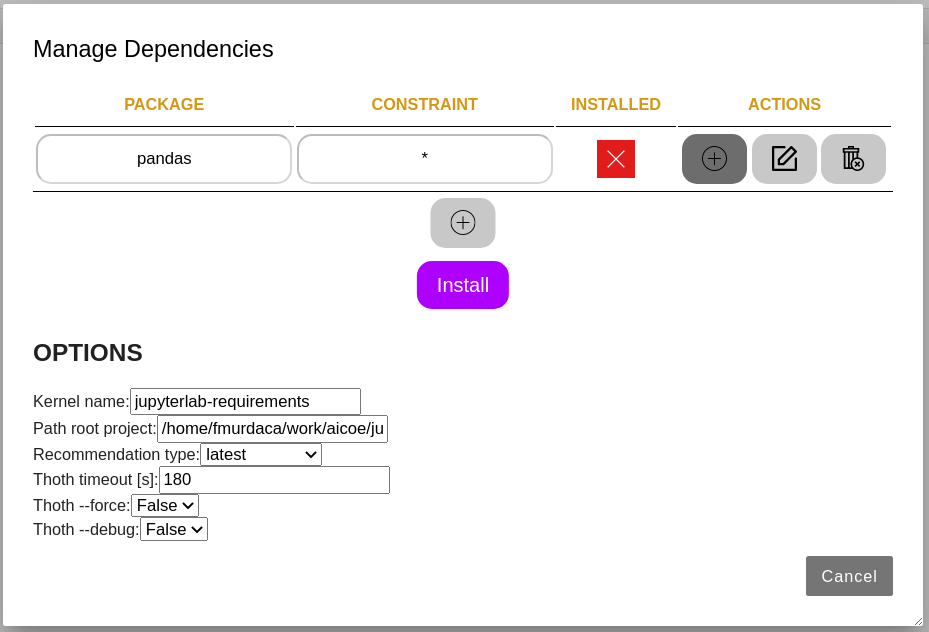
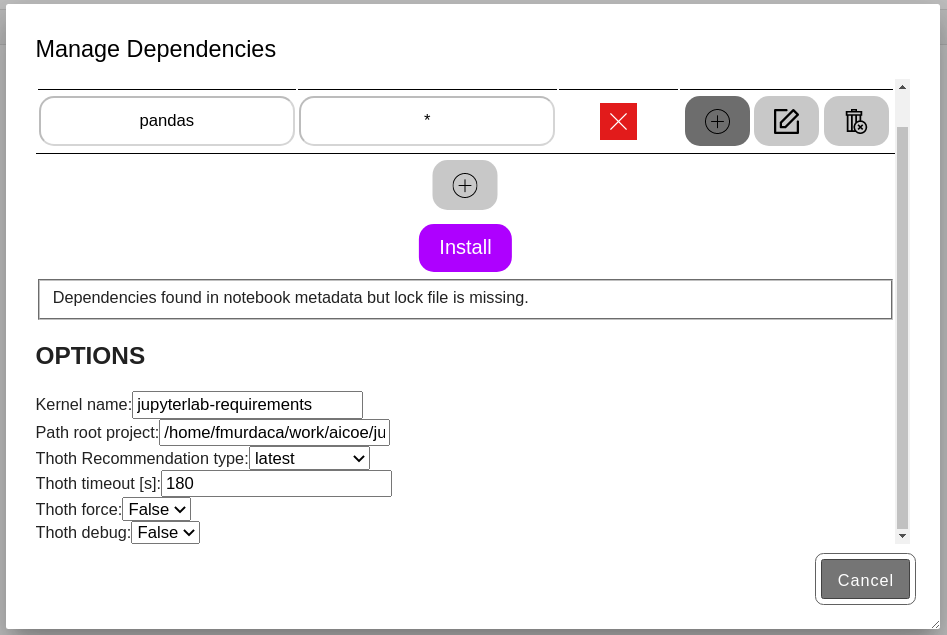
Add table for UI parameters description

Changed region(s): [[0.0, 0.0301, 0.9677, 0.962], [0.8428, 0.8718, 0.9677, 0.962], [0.4058, 0.7516, 0.437, 0.7816]]

diff --git a/src/components/dependencyManagementUI.tsx b/src/components/dependencyManagementUI.tsx
@@ -928,7 +928,7 @@ export class DependenciesManagementUI extends React.Component<IDependencyManagem
                             </label>
                             <br />
                             <label>
-                              Recommendation type:
+                              Thoth Recommendation type:
                               <select onChange={() => this.changeRecommendationType}>
                                 title="Recommendation Type"
                                 name="recommendation_type"
@@ -952,7 +952,7 @@ export class DependenciesManagementUI extends React.Component<IDependencyManagem
                             </label>
                             <br />
                             <label>
-                              Thoth --force:
+                              Thoth force:
                               <select onChange={() => this.setForceParameter}>
                                 title="Thoth force parameter"
                                 name="thoth_force"
@@ -963,7 +963,7 @@ export class DependenciesManagementUI extends React.Component<IDependencyManagem
                             </label>
                             <br />
                             <label>
-                              Thoth --debug:
+                              Thoth debug:
                               <select onChange={() => this.setForceParameter}>
                                 title="Thoth debug parameter"
                                 name="thoth_debug"

diff --git a/docs/source/jupyterlab-requirements-ui.md b/docs/source/jupyterlab-requirements-ui.md
@@ -39,7 +39,17 @@ After saving the install button will appear so you can check before actually ins
 <img alt="Install" src="https://raw.githubusercontent.com/thoth-station/jupyterlab-requirements/master/docs/images/Install.png">
 </div>
 
-NOTE: You can choose the name of the kernel you want for your notebook.
+The following table describes the parameters available in the UI before using the install button:
+
+| parameter | description |
+| ------------- | ------------------ |
+| Kernel name | Select a name for the Jupyter Kernel where your dependencies will be installed. |
+| Path root project | This is the path considered as root of your project (automatically discovered but customizable if necessary (e.g. when using overlays)). |
+| Thoth Recommendation type | Recommendation type used when submitting request to Thoth resolution engine. |
+| Thoth timeout | Assign timeout in seconds for the request to Thoth resolution engine. |
+| Thoth force | `force` flag for the request to Thoth resolution engine in order to not consider cached results. |
+| Thoth debug | `debug` flag for the request to Thoth resolution engine to run in debug/verbose mode (WARNING: This will impact the quality of the results). |
+
 
 Finally after using the install button:
 
